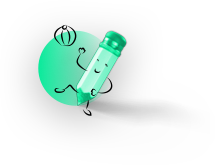
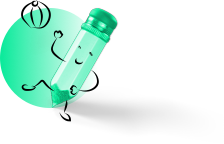
Update done view image
Ref Teamweek/teamweek#2510

diff --git a/src/popup/styles/popup_page.less b/src/popup/styles/popup_page.less
@@ -307,7 +307,7 @@ input::-webkit-input-placeholder {
       height: 187px;
       background-size: contain;
       background-repeat: no-repeat;
-      transform: translateX(30px);
+      transform: translateX(65px);
       background-image: url('/images/success_illustration.png');
       @media @mq-retina {
         background-image: url('/images/success_illustration@2x.png');
@@ -321,13 +321,13 @@ input::-webkit-input-placeholder {
     }
 
     h1 {
-      transform: translateY(-30px);
+      transform: translateY(-40px);
       font-size: 16px;
       font-weight: normal;
     }
 
     p {
-      transform: translateY(-20px);
+      transform: translateY(-30px);
       font-size: 13px;
       color: rgba(0, 0, 0, 0.35);
     }
